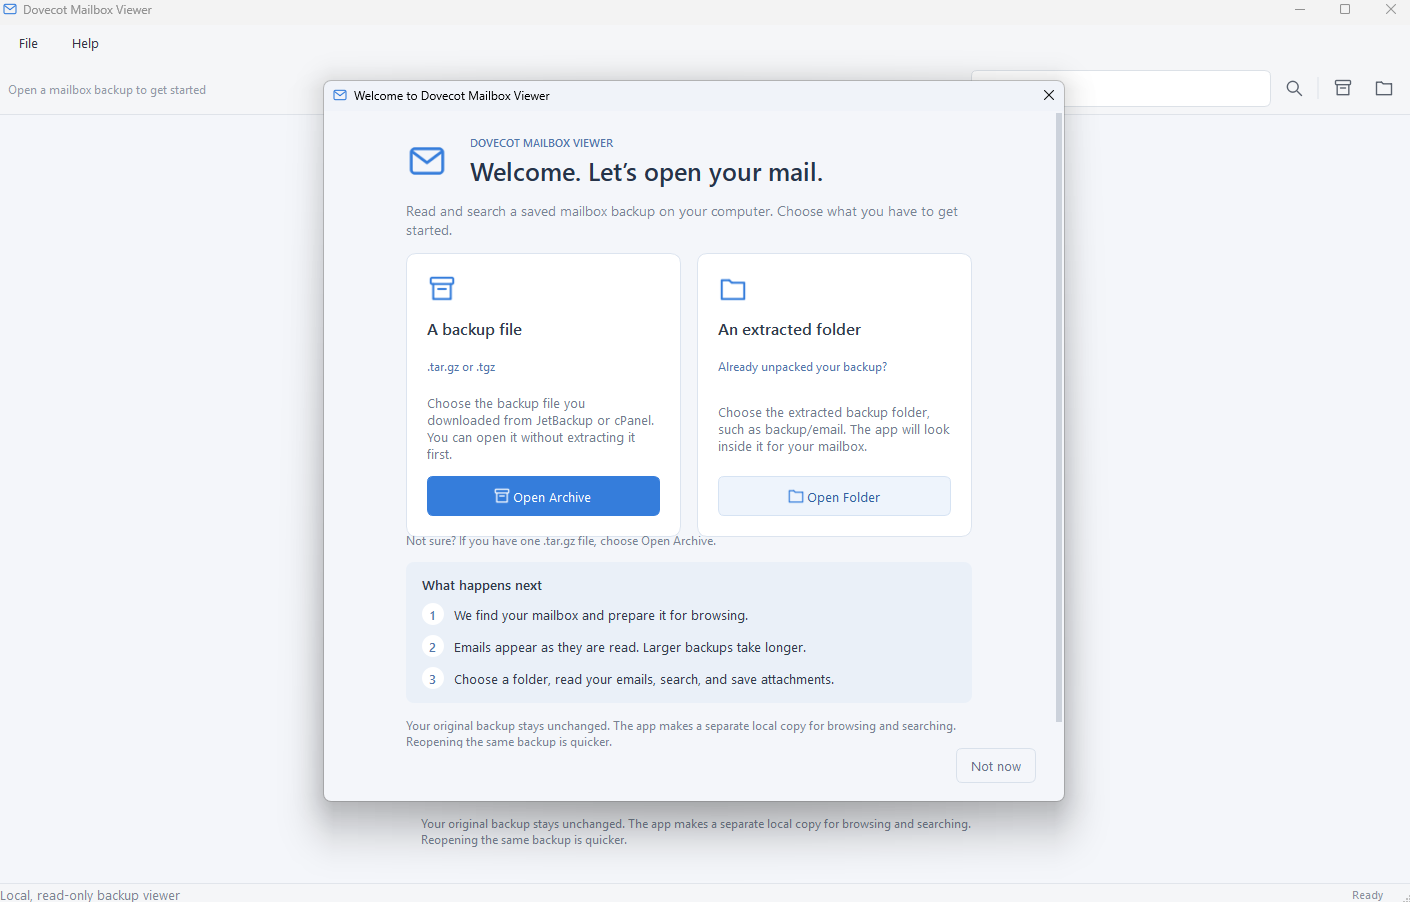
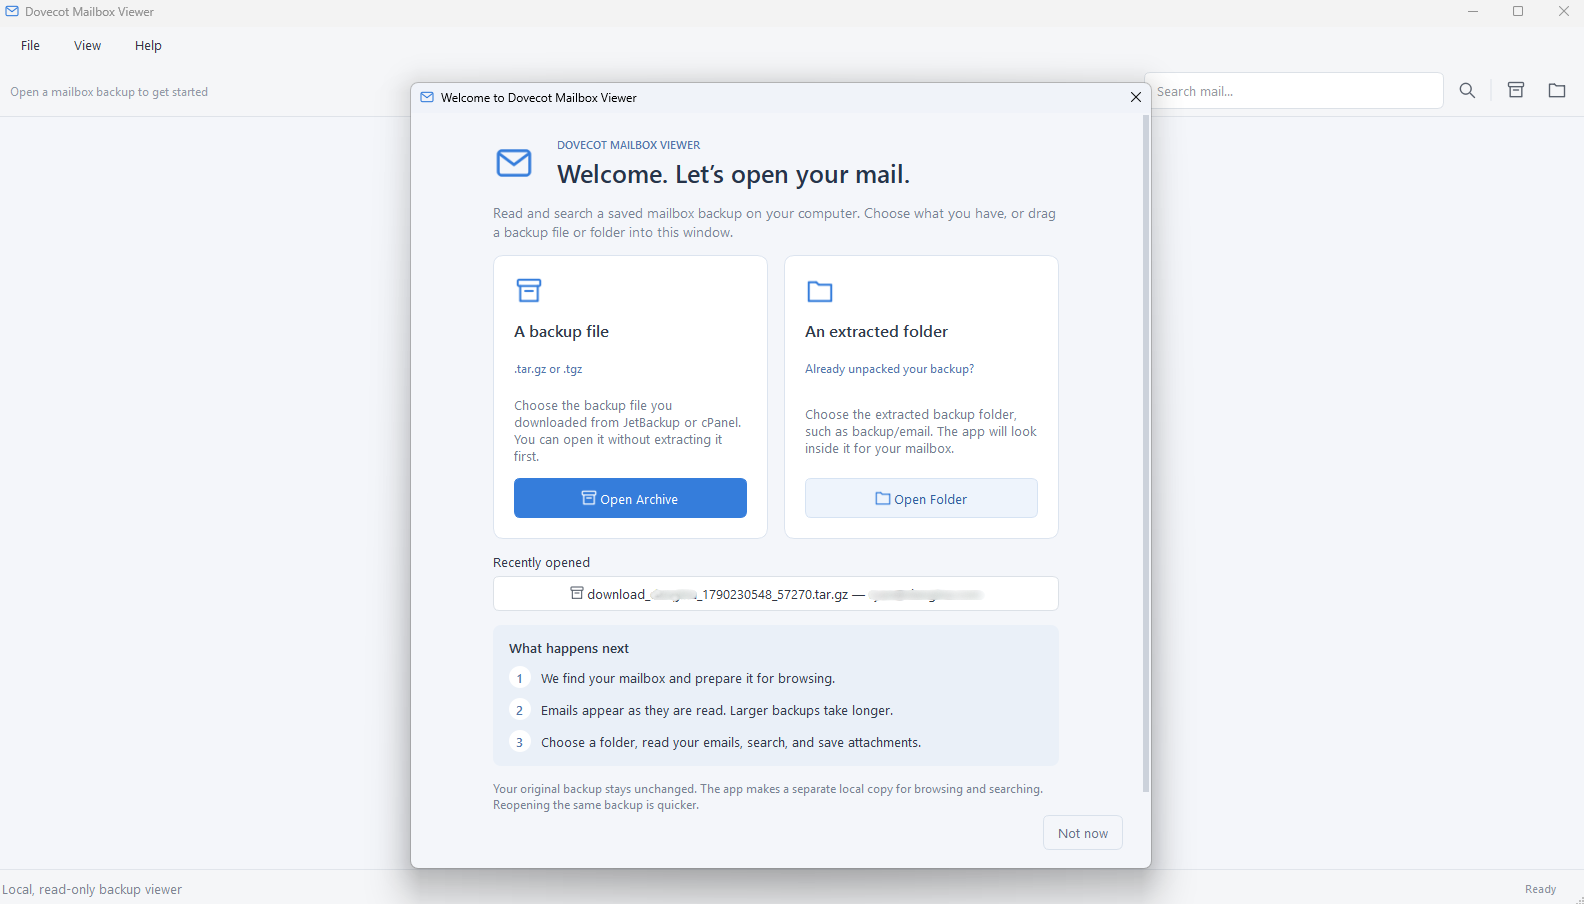
docs: refresh README screenshots for v0.4.0 [skip ci]
Replace the welcome screenshot and add the updated mailbox view with descriptive captions and alt text.

diff --git a/README.md b/README.md
@@ -31,7 +31,15 @@ Check the installed version in **Help → About** or the EXE's Windows **Propert
 → Details**. Each release also includes `SHA256SUMS.txt` for checking its download.
 The **Source code** ZIP links on release pages are for developers.
 
-![Dovecot Mailbox Viewer welcome screen with Open Archive and Open Folder choices](docs/images/welcome-screen.png)
+## Screenshots
+
+**Welcome guide** — open a backup archive, choose an extracted folder or reopen a recent backup.
+
+![Dovecot Mailbox Viewer welcome guide with Open Archive, Open Folder and recently opened backups](docs/images/welcome-screen.png)
+
+**Mailbox view** — browse folders, filter unread mail and read HTML emails.
+
+![Dovecot Mailbox Viewer showing mailbox folders, Unread and All tabs, date-grouped messages and an HTML email preview](docs/images/mailbox-view.png)
 
 ## Export, print and save as PDF
 
